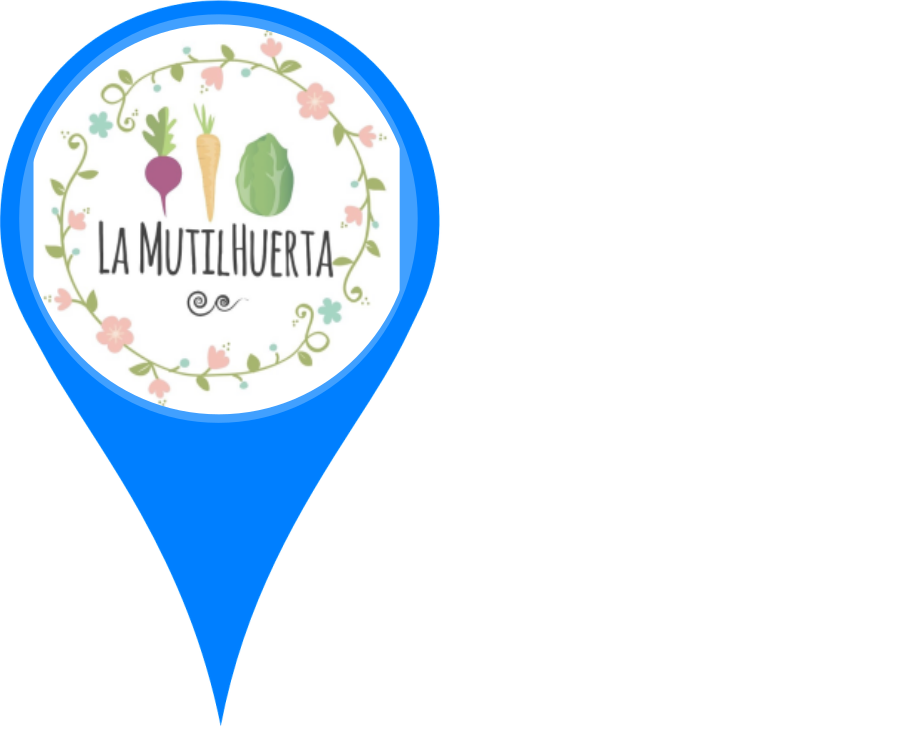
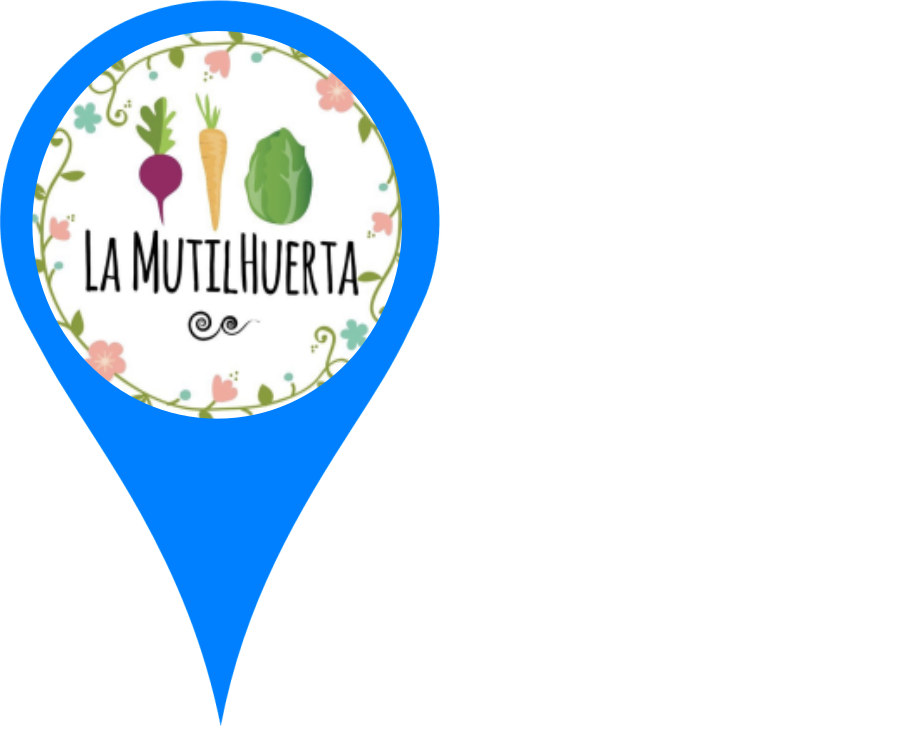
25

Changed region(s): [[0.0, 0.0, 0.4595, 0.5995]]

diff --git a/contacts_3.html b/contacts_3.html
@@ -74,13 +74,13 @@
 
    <!-- Container donde se explica quienes somos-->
    <div class="w3-container" id="CONTACTO">
-    <div class="w3-content" style="max-width:900px">
+    <div class="w3-content" style="max-width:800px">
       <h5 class="w3-center w3-padding-64"><span class="w3-tag w3-wide">CONTACTO </span></h5>
       
       <h1> Email: lamutilhuerta@gmail.com <br> Telefono: 610098925 <br> Instagram: @lamutilhuerta</h1><!--titulo con el estilo de h1-->
        
  <!-- bloque dónde aparecerá el mapa, así como el estilo del mapa -->
-<div class=mapa id="bloque_mapa" style="width: 900px; height: 900px;"></div>
+<div class=mapa id="bloque_mapa" style="width: 800px; height: 800px;"></div>
 
 <script> // a partir de ahora se emplea lenguaje de Javascript
 // defino el mapa como una varianble y ajusto dónde quiero que aparezca
@@ -129,7 +129,7 @@ var mutil = L.icon({
     iconUrl: 'Images/chincheta.png', //Imagen que quiero usar como chincheta
   
     iconSize:     [160, 125], // tamaño icon
-    iconAnchor:   [40, 130], // punto de la imagen que corresponde con la localización de la Mutilhuerta
+    iconAnchor:   [40, 120], // punto de la imagen que corresponde con la localización de la Mutilhuerta
 })
 L.marker([42.789167, -1.6175], {icon: mutil}).addTo(mi_mapa); //establecemos coordenadas y lo añadimos al mapa
 
